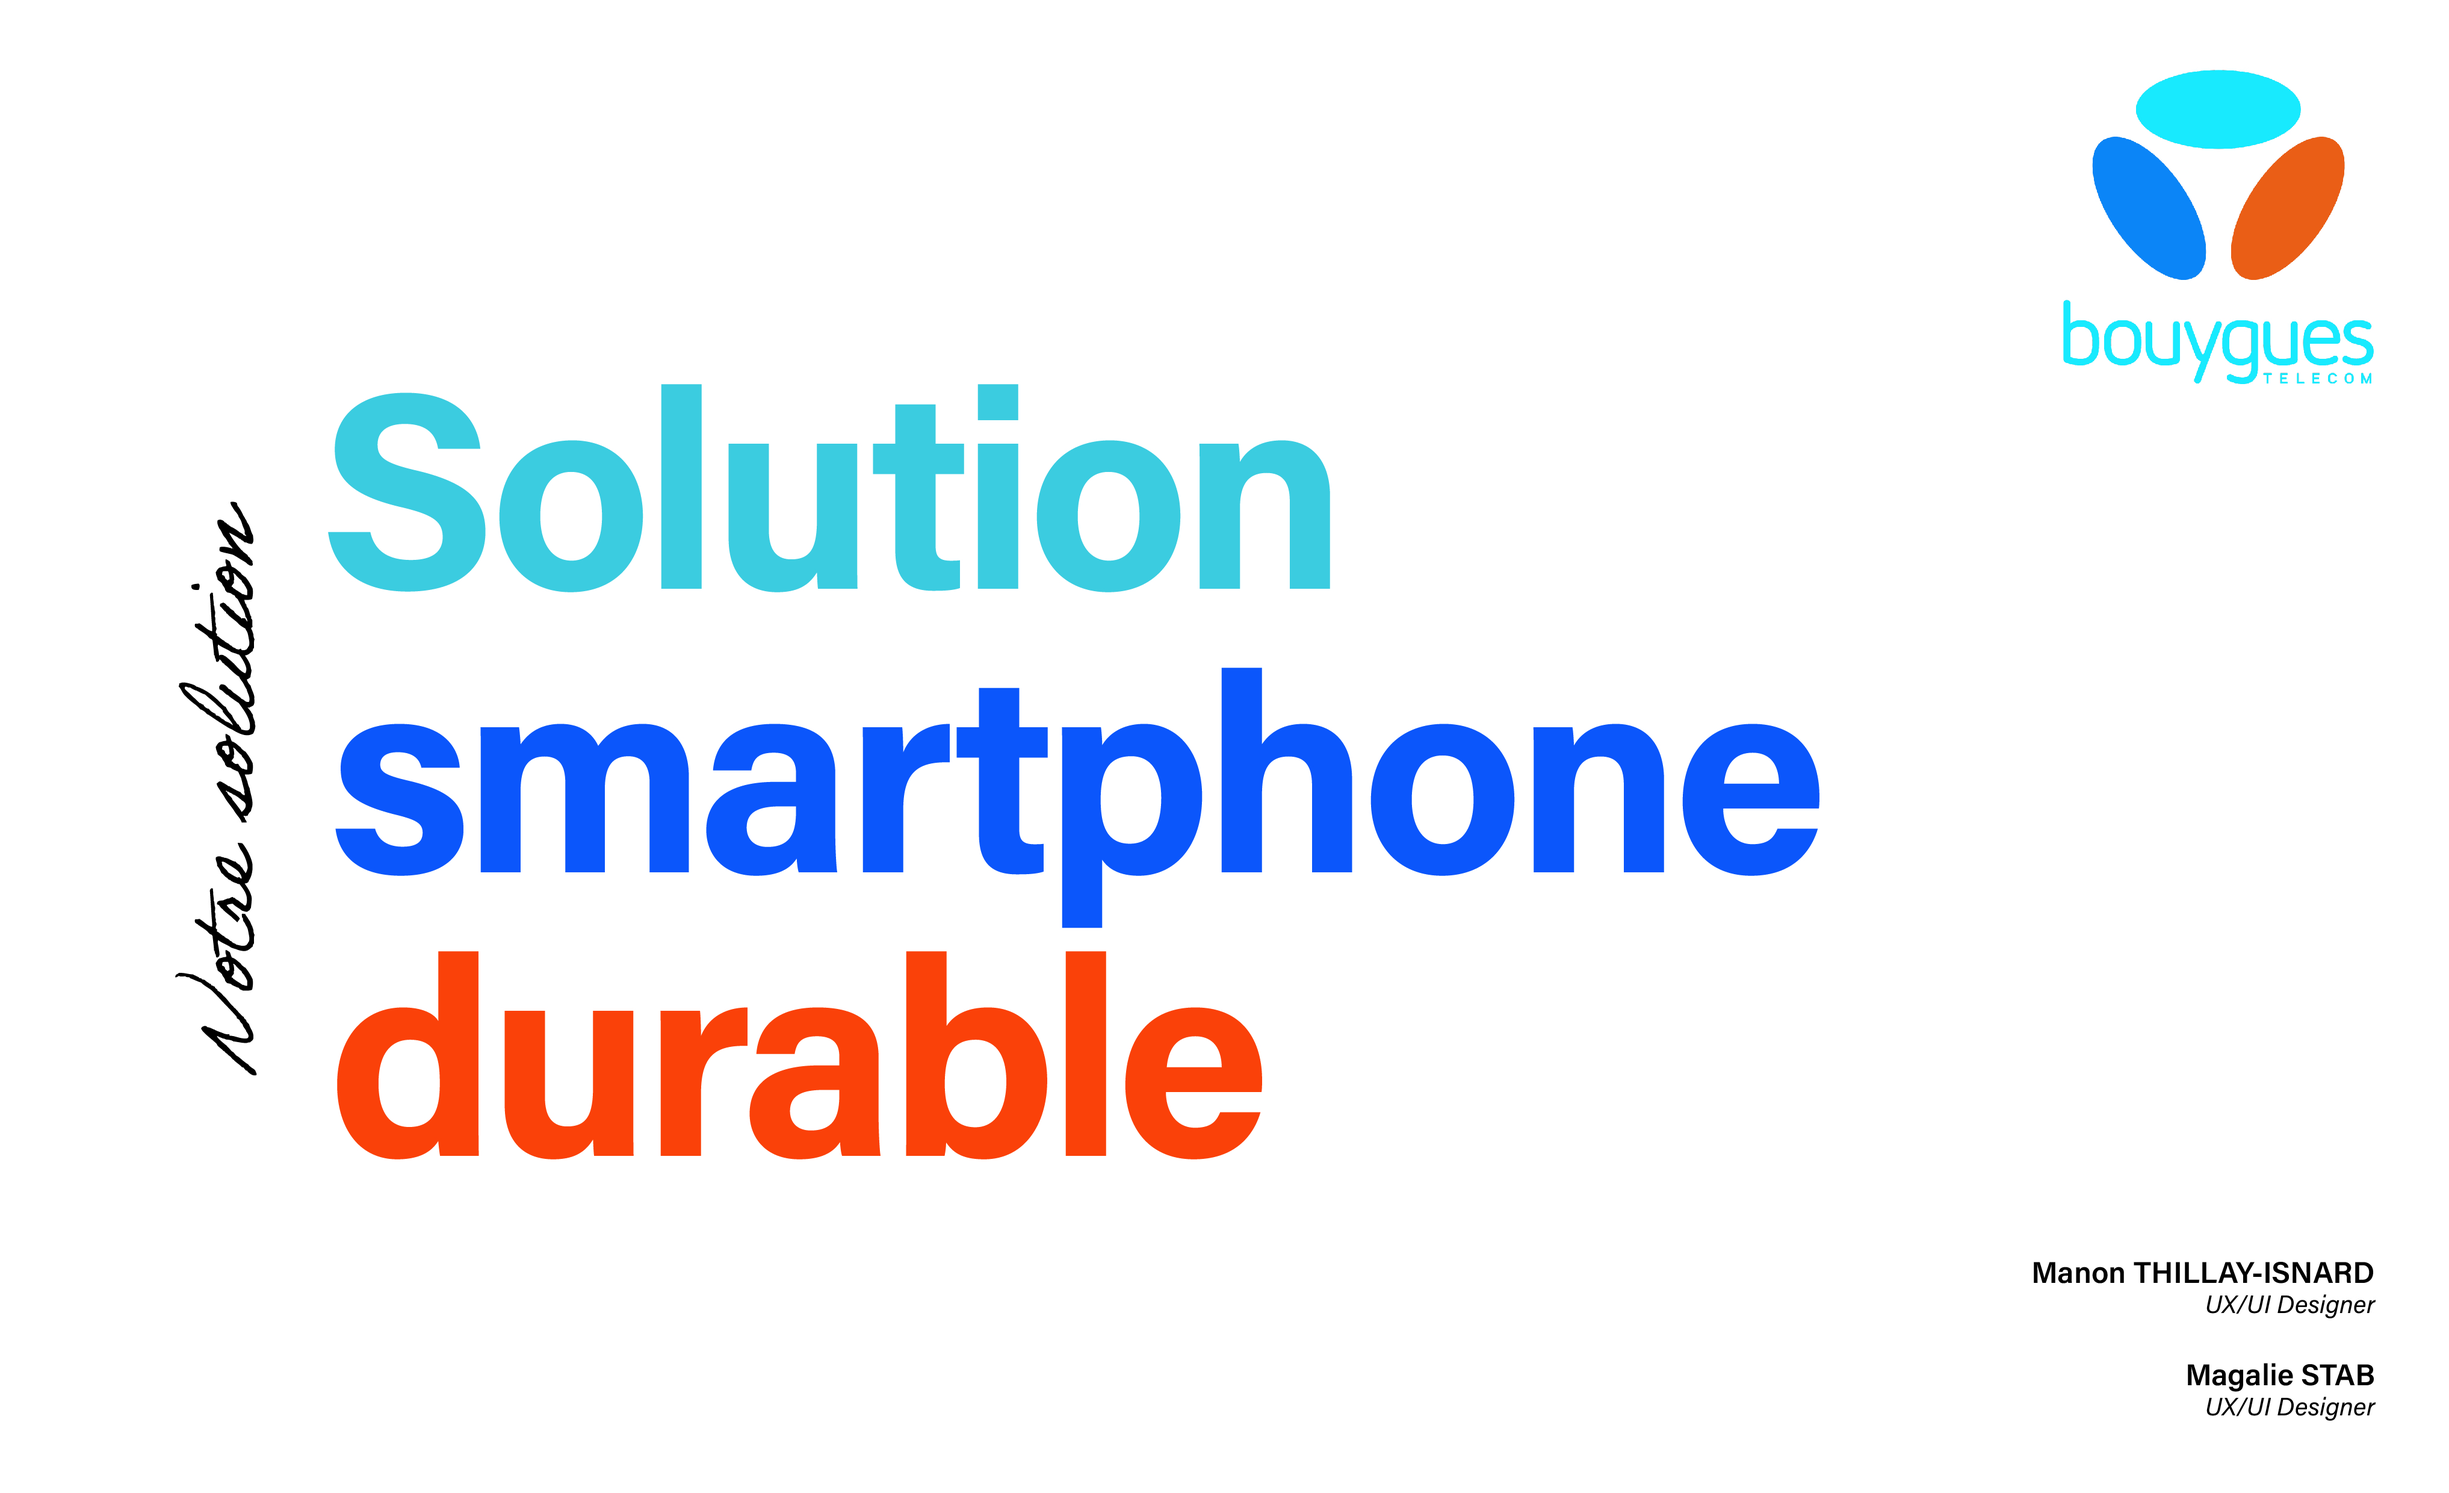
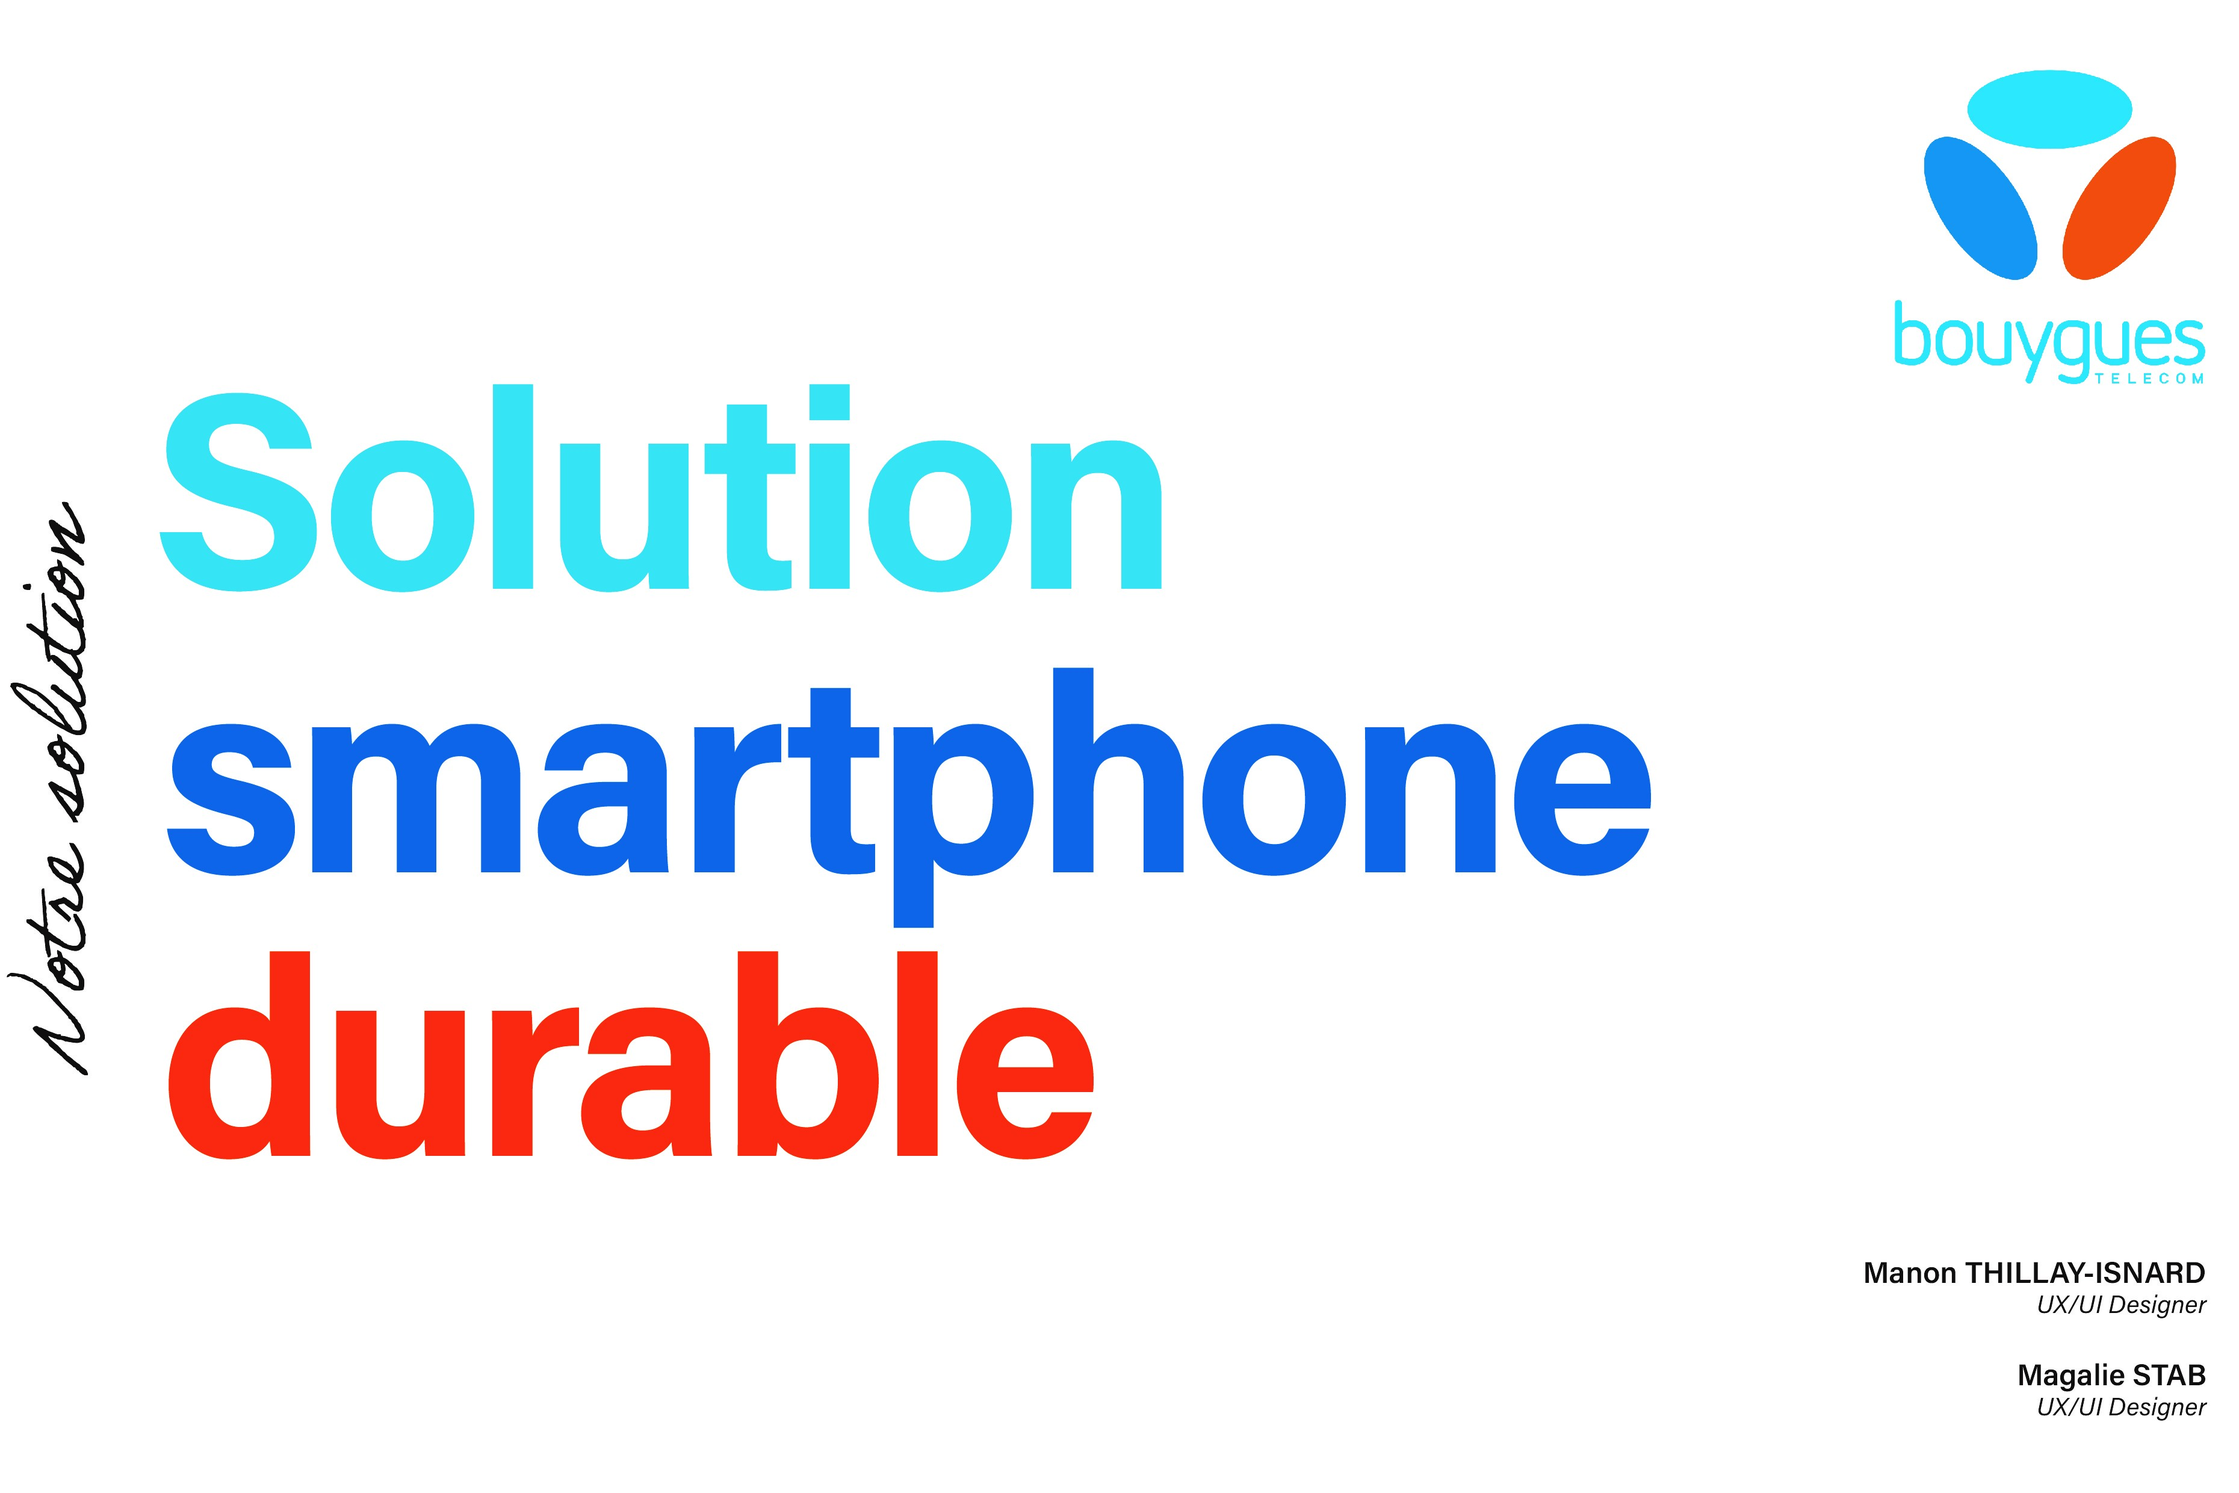
qualité d'image et header index baissé

diff --git a/index.html b/index.html
@@ -71,7 +71,7 @@
 
         <div class="container-projects-cards">
             <div class="box-card">
-                <img src="data/imgs/index/leria.jpeg" alt="Image d'illustration du projet Leria." class="project-img">
+                <img src="data/imgs/index/leria.jpg" alt="Image d'illustration du projet Leria." class="project-img">
                 <h3 class="project-title">Leria</h3>
                 <p class="project-subtitle">Création Web</p>
                 <div class="container-btn-projects-cards">
@@ -88,7 +88,7 @@
                 </div>
             </div>
             <div class="box-card">
-                <img src="data/imgs/index/sylvassur.jpeg" alt="Image d'illustration du projet Sylvassur."
+                <img src="data/imgs/index/sylvassur.jpg" alt="Image d'illustration du projet Sylvassur."
                     class="project-img">
                 <h3 class="project-title">Sylvassur</h3>
                 <p class="project-subtitle">Création Web & vidéos tutos</p>
@@ -106,7 +106,7 @@
                 </div>
             </div>
             <div class="box-card">
-                <img src="data/imgs/index/autopanneassur.jpeg" alt="Image d'illustration du projet AutoPanneAssur."
+                <img src="data/imgs/index/autopanneassur.jpg" alt="Image d'illustration du projet AutoPanneAssur."
                     class="project-img">
                 <h3 class="project-title">AutoPanneAssur</h3>
                 <p class="project-subtitle">Création Web</p>
@@ -124,7 +124,7 @@
                 </div>
             </div>
             <div class="box-card">
-                <img src="data/imgs/index/l'acoste.jpeg" alt="Image d'illustration du projet L’ACOSTE."
+                <img src="data/imgs/index/l'acoste.jpg" alt="Image d'illustration du projet L’ACOSTE."
                     class="project-img">
                 <h3 class="project-title">L’ACOSTE</h3>
                 <p class="project-subtitle">Refonte de l’identité & création d’app</p>
@@ -142,7 +142,7 @@
                 </div>
             </div>
             <div class="box-card">
-                <img src="data/imgs/index/gfa.jpeg" alt="Image d'illustration du projet GFA Funding."
+                <img src="data/imgs/index/gfa.jpg" alt="Image d'illustration du projet GFA Funding."
                     class="project-img">
                 <h3 class="project-title">GFA Funding</h3>
                 <p class="project-subtitle">Création d’identité</p>
@@ -160,7 +160,7 @@
                 </div>
             </div>
             <div class="box-card">
-                <img src="data/imgs/index/bouygues-telecom.jpeg" alt="Image d'illustration du projet Bouygues Telecom."
+                <img src="data/imgs/index/bouygues-telecom.jpg" alt="Image d'illustration du projet Bouygues Telecom."
                     class="project-img">
                 <h3 class="project-title">Bouygues Telecom</h3>
                 <p class="project-subtitle">Proposition de solution</p>

diff --git a/data/css/style-index.css b/data/css/style-index.css
@@ -18,7 +18,7 @@ html{
     width: 50vw;
     margin-left: 10vw;
     height: 50vh;
-    margin-top: 20vh;
+    margin-top: 30vh;
 }
 
 .header {
